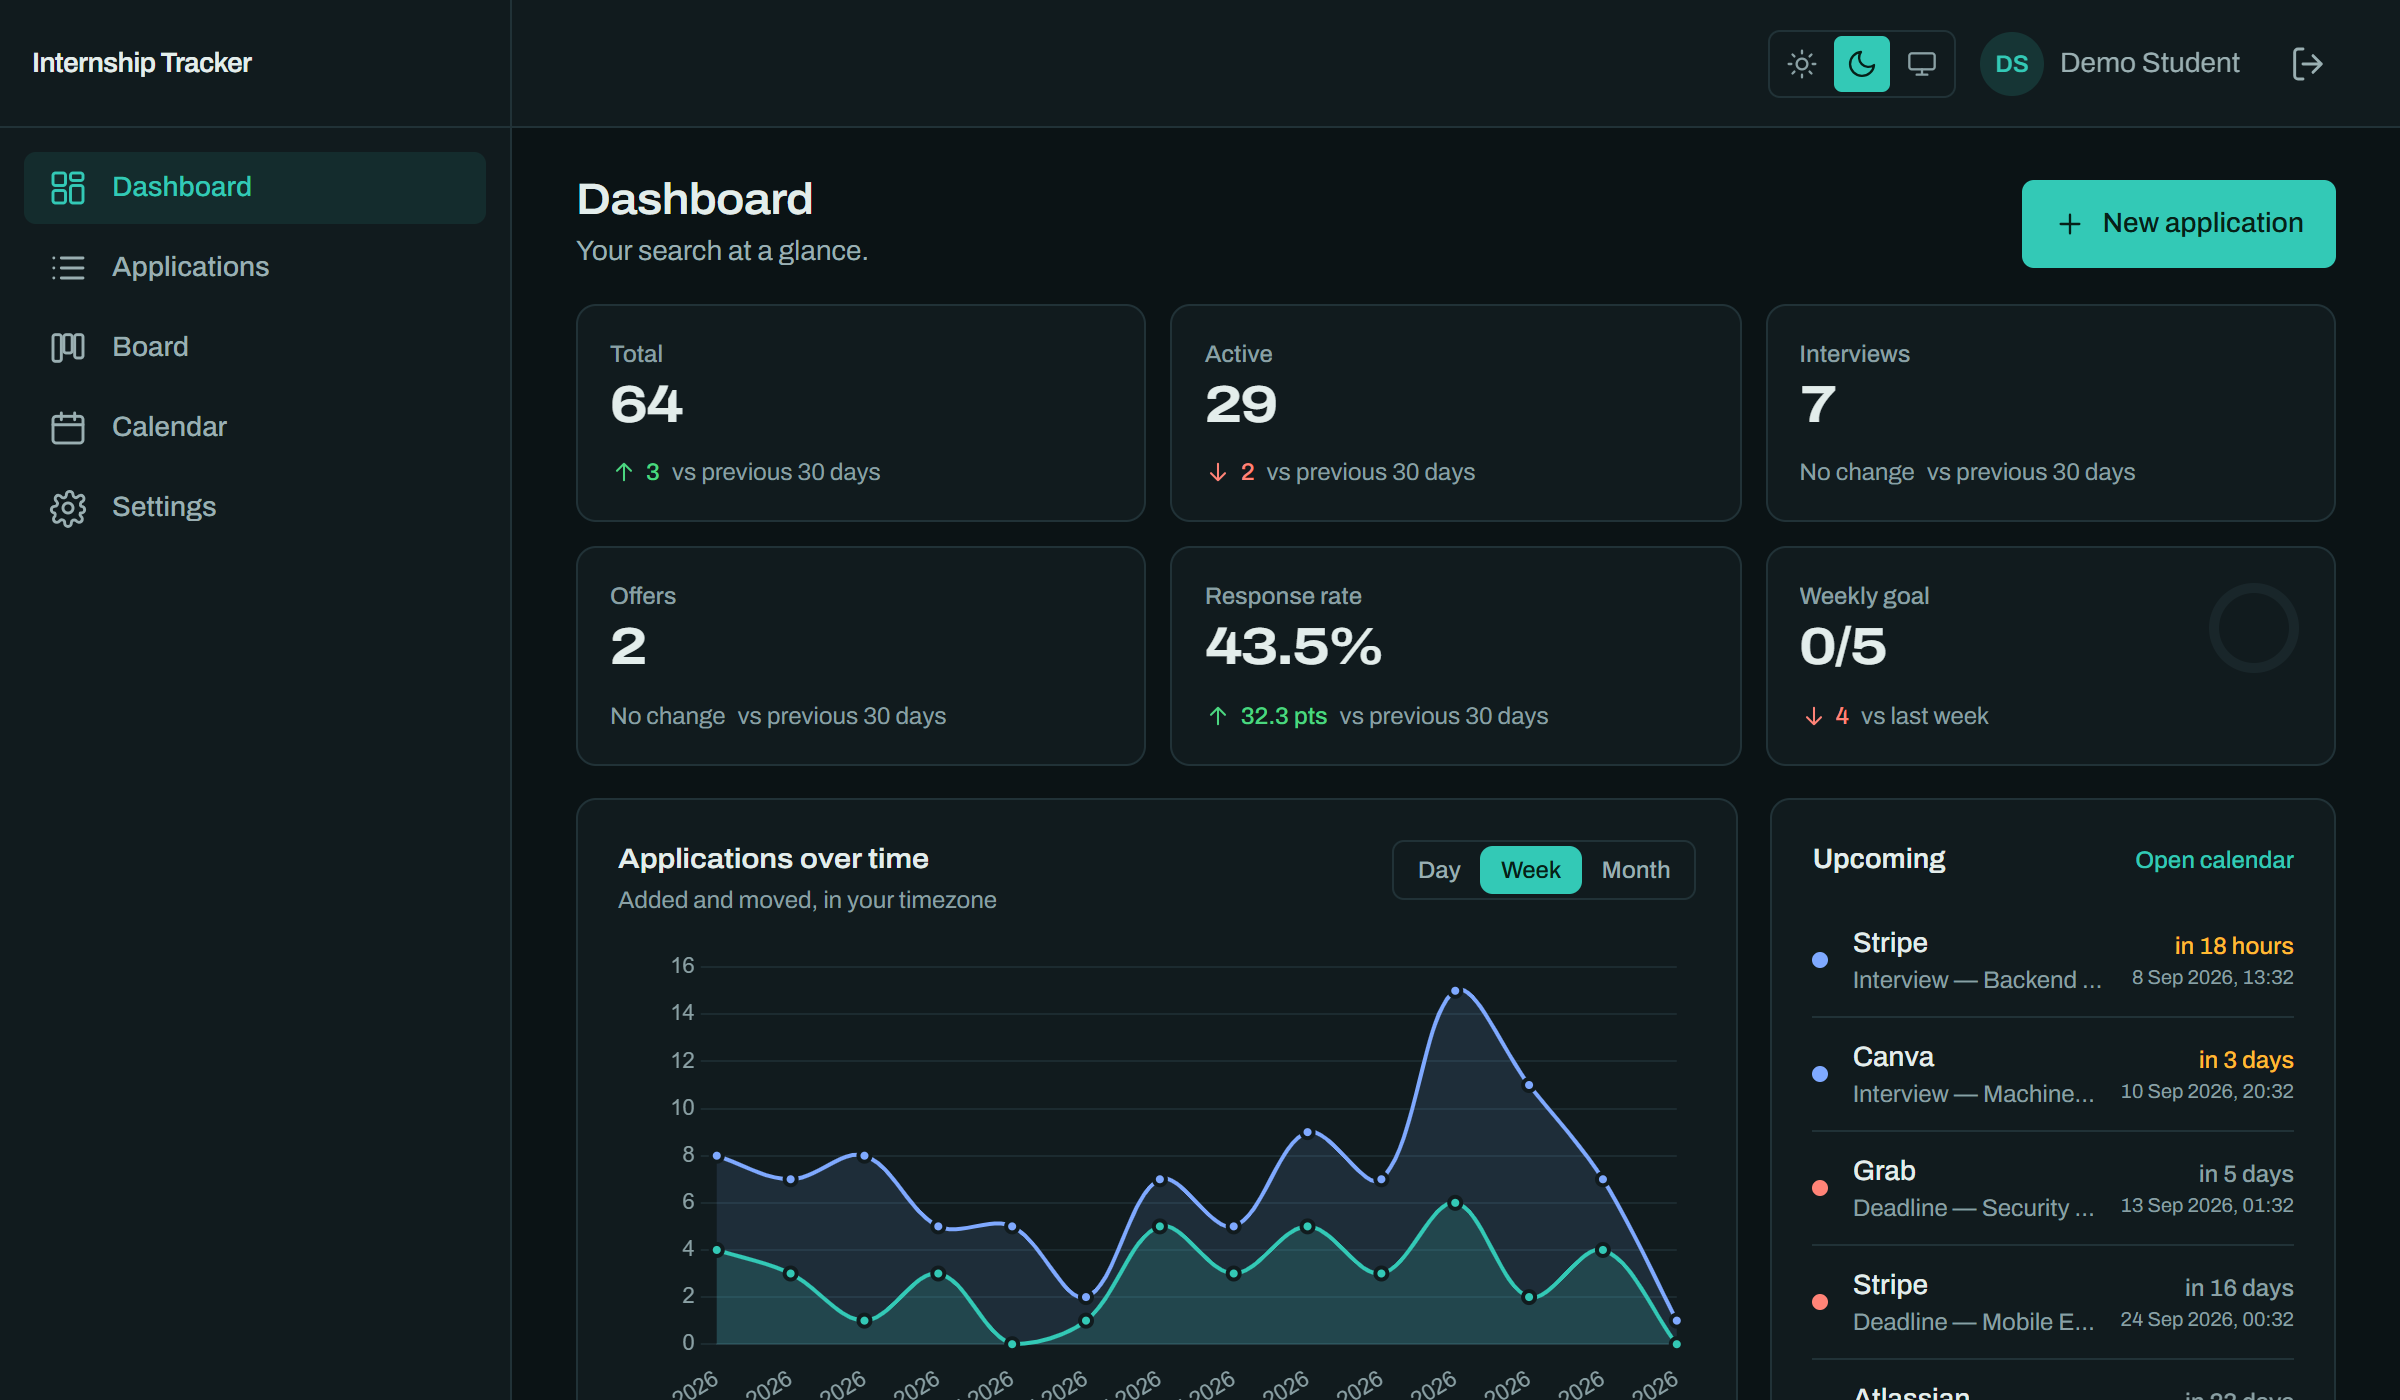
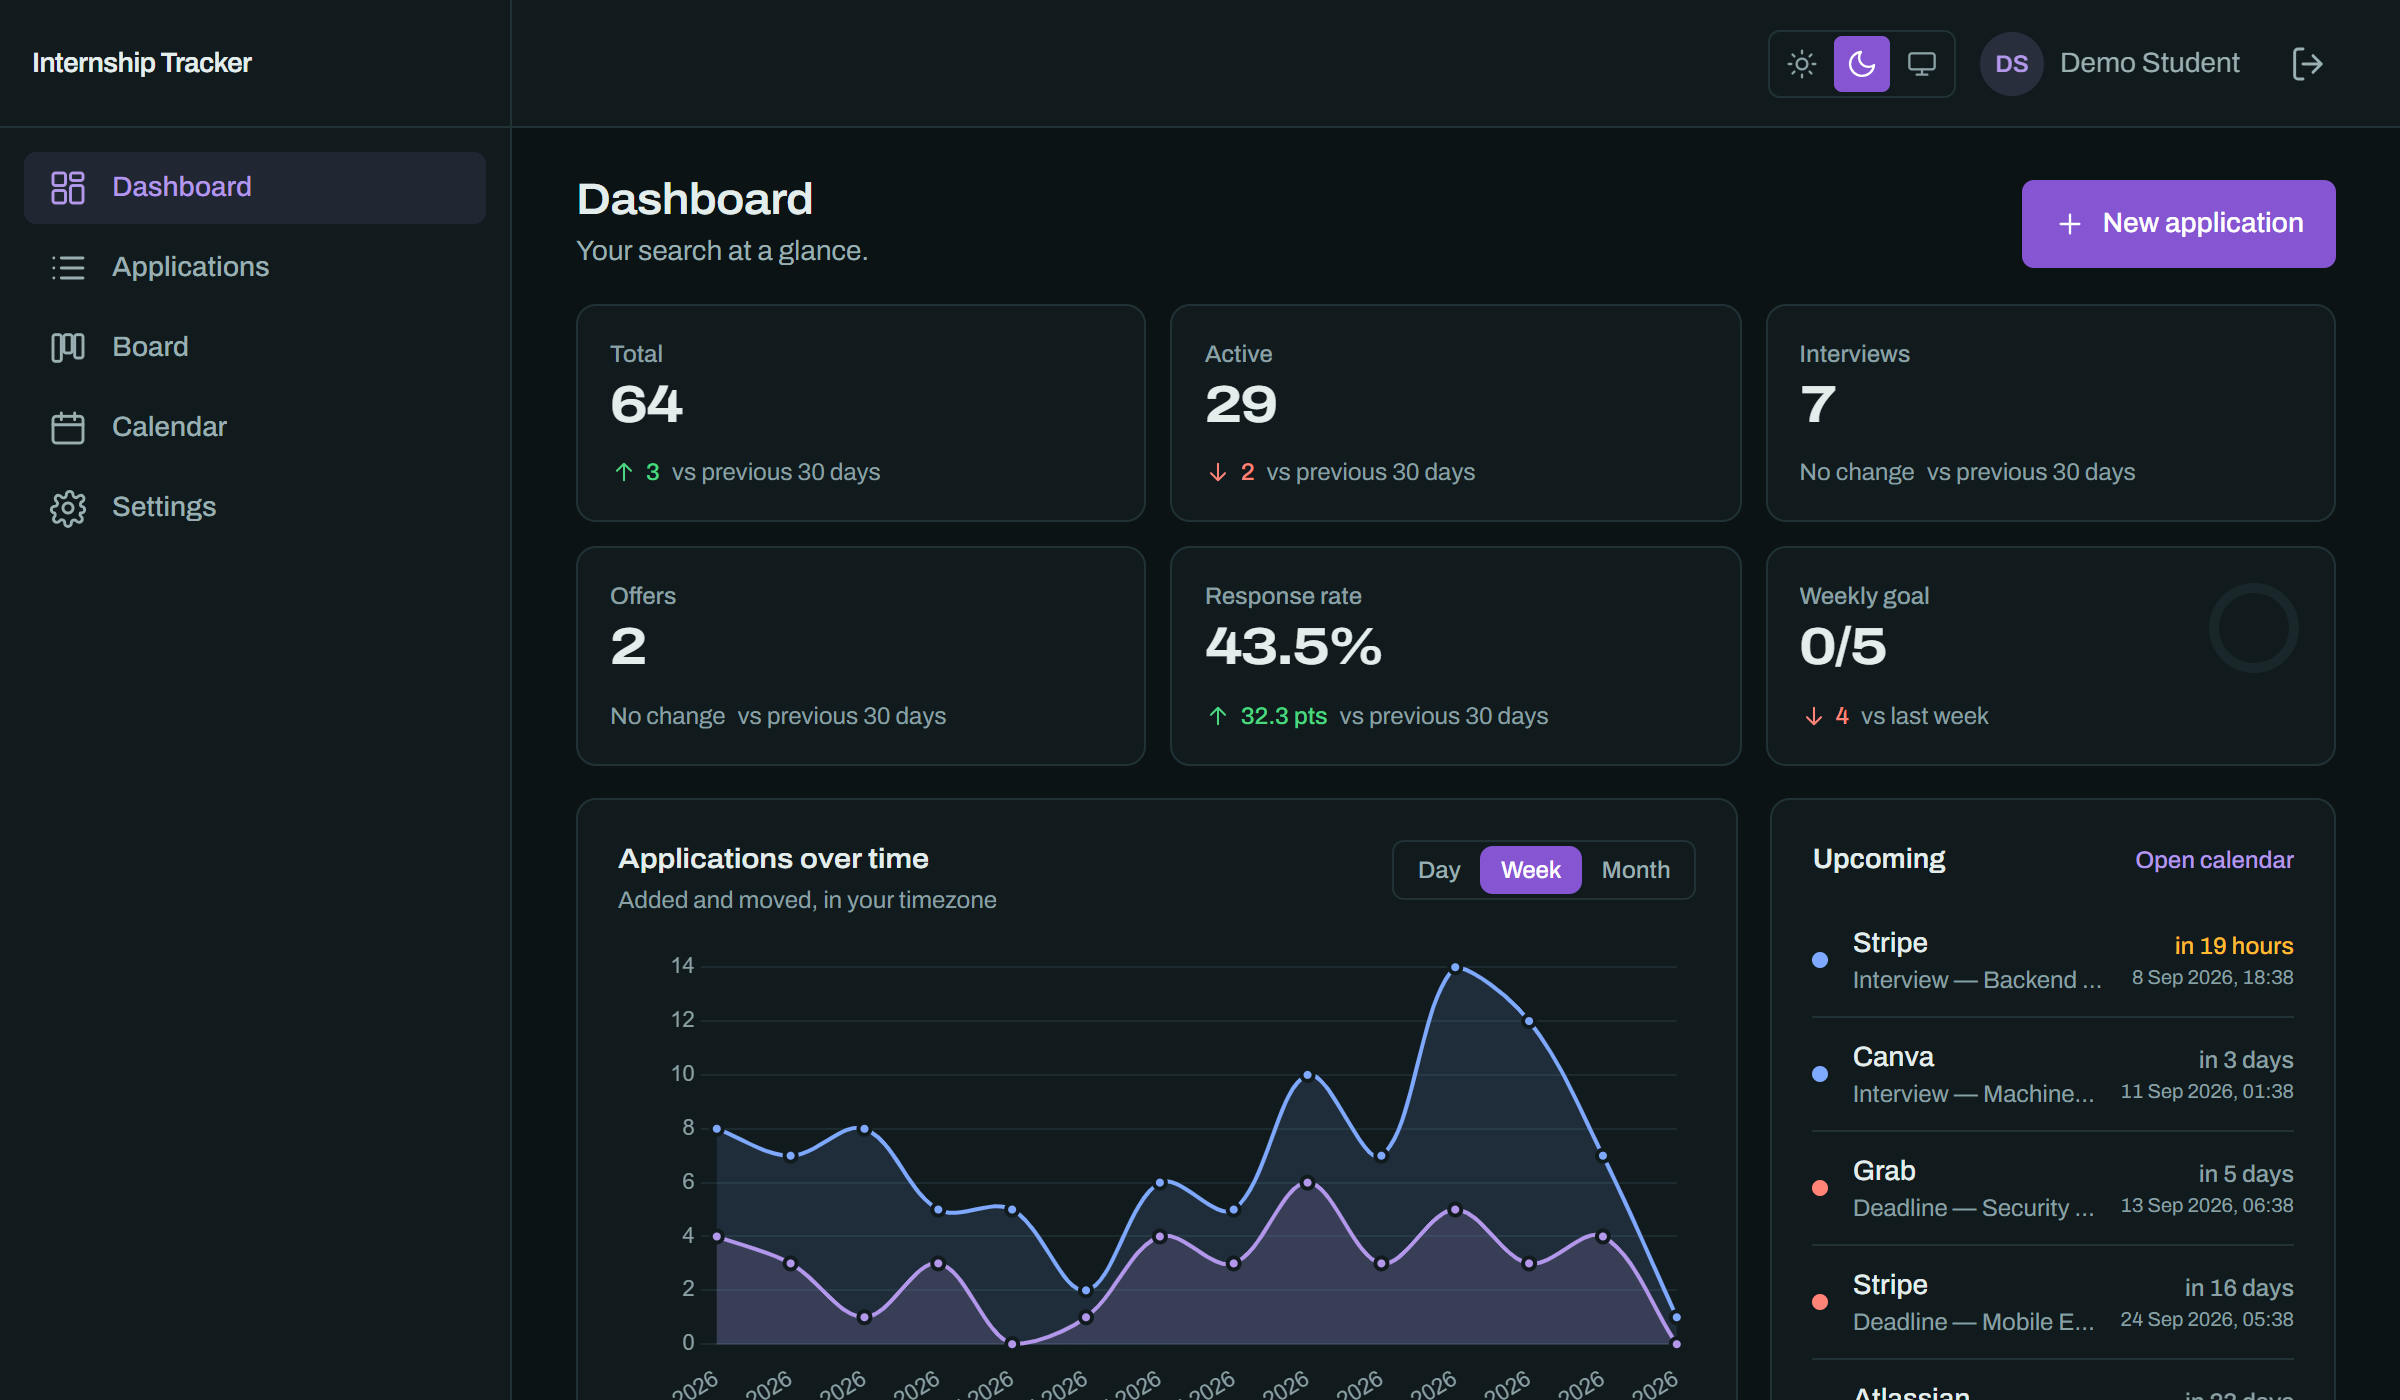
feat(design): replace the jade primary with a violet, and split the token
Review read the jade primary as neon in dark mode. Measuring the gate showed
the glare was tuning rather than a requirement: jade cleared the dark theme at
8.48:1 where 4.5 is asked, and a near-grey at chroma 0.02 passes the same gate.

The cobalt the brief asked for is unavailable. `--color-info` already sits at
OKLCH hue 264 as the `applied` status and `chart-2`, so a cobalt primary landed
1.2 degrees from it and made Applied and Assessment the same colour. Mapping
the hue occupancy of the tokens that could not move left one wide gap, between
info at 264 and chart-5's pink at 352. The primary is at hue 298.

`--color-primary` is also split in two. The pill shape `bg-primary/15
text-primary` forces the token to be readable as text on a near-black card,
which pins it near L 0.72 — and a fill that light with dark text is a pastel
button. The fill is now its own token at L 0.565 carrying white text. Wherever
`bg-primary` was paired with `text-primary-fg` — nine sites — both moved to the
fill pair; every tinted use kept the accent value. `--color-primary-hover` and
`--color-primary-fg` are deleted, unreferenced once those nine moved.

Hover deepens in both themes now: lightening the dark fill drops its white
label below 4.5:1, so down was the only direction left.

The fill is gated separately, and that gate immediately caught a real miss —
the first fill was checked against `canvas` only and sat at 2.75:1 against
[…]

diff --git a/client/src/index.css b/client/src/index.css
@@ -18,10 +18,15 @@
  * values for exactly that reason.
  *
  * The palette is the "Dispatch" direction recorded in DECISIONS.md: a
- * desaturated petrol base with a jade primary, on the rule that the interface is
- * cool by default and the only warm colours on screen — amber and red — mean
- * something needs the student's attention. Deliberately not a neutral slate with
- * an indigo accent, which is what it replaced.
+ * desaturated petrol base with a deep violet primary, on the rule that the
+ * interface is cool by default and the only warm colours on screen — amber and
+ * red — mean something needs the student's attention. Deliberately not a neutral
+ * slate with a stock indigo accent, which is what it replaced.
+ *
+ * The primary is violet rather than the cobalt first proposed because
+ * `--color-info` already owns hue 264: a blue primary made Applied and
+ * Assessment the same colour. Hue 298 is the widest gap left between info and
+ * the pink of `--color-chart-5`.
  *
  * Keep every declaration in these two blocks a flat `--name: value;`. The test
  * helper matches a block with `[^}]*`, so a nested rule here would truncate it.
@@ -35,15 +40,16 @@
   --color-text: 13 26 28;
   --color-text-muted: 63 85 89;
   --color-text-subtle: 84 105 109;
-  --color-primary: 4 100 90;
-  --color-primary-hover: 6 80 73;
-  --color-primary-fg: 255 255 255;
+  --color-primary: 104 46 179;
+  --color-primary-fill: 104 46 179;
+  --color-primary-fill-hover: 86 32 151;
+  --color-primary-fill-fg: 255 255 255;
   --color-success: 8 102 48;
   --color-warning: 134 72 0;
   --color-danger: 170 30 18;
   --color-danger-fg: 255 255 255;
   --color-info: 25 77 207;
-  --color-ring: 4 100 90;
+  --color-ring: 104 46 179;
   --color-shadow: 13 26 28;
 
   /*
@@ -51,7 +57,7 @@
    * by-source or top-companies chart on their own: those need colours that are
    * distinguishable from each other rather than colours that mean something.
    */
-  --color-chart-1: 4 100 90;
+  --color-chart-1: 104 46 179;
   --color-chart-2: 25 77 207;
   --color-chart-3: 134 72 0;
   --color-chart-4: 8 102 48;
@@ -60,10 +66,10 @@
 
   /* Activity heatmap intensity, level 0 being a day with nothing on it. */
   --color-heat-0: 226 233 231;
-  --color-heat-1: 183 220 213;
-  --color-heat-2: 127 197 186;
-  --color-heat-3: 61 158 144;
-  --color-heat-4: 11 108 98;
+  --color-heat-1: 208 197 236;
+  --color-heat-2: 180 158 230;
+  --color-heat-3: 146 107 215;
+  --color-heat-4: 110 56 184;
 }
 
 [data-theme='dark'] {
@@ -75,18 +81,19 @@
   --color-text: 227 237 235;
   --color-text-muted: 154 175 178;
   --color-text-subtle: 138 160 164;
-  --color-primary: 51 201 182;
-  --color-primary-hover: 92 217 201;
-  --color-primary-fg: 6 32 24;
+  --color-primary: 178 151 234;
+  --color-primary-fill: 133 85 210;
+  --color-primary-fill-hover: 115 63 191;
+  --color-primary-fill-fg: 255 255 255;
   --color-success: 75 214 128;
   --color-warning: 255 186 51;
   --color-danger: 255 131 119;
   --color-danger-fg: 42 10 6;
   --color-info: 127 169 255;
-  --color-ring: 51 201 182;
+  --color-ring: 178 151 234;
   --color-shadow: 0 0 0;
 
-  --color-chart-1: 51 201 182;
+  --color-chart-1: 178 151 234;
   --color-chart-2: 127 169 255;
   --color-chart-3: 255 186 51;
   --color-chart-4: 75 214 128;
@@ -94,10 +101,10 @@
   --color-chart-6: 138 160 164;
 
   --color-heat-0: 25 38 42;
-  --color-heat-1: 30 74 71;
-  --color-heat-2: 34 112 106;
-  --color-heat-3: 42 154 141;
-  --color-heat-4: 63 201 182;
+  --color-heat-1: 59 46 86;
+  --color-heat-2: 94 68 140;
+  --color-heat-3: 133 97 197;
+  --color-heat-4: 175 146 234;
 }
 
 @layer base {

diff --git a/client/tests/a11y/tokenContrast.test.ts b/client/tests/a11y/tokenContrast.test.ts
@@ -55,10 +55,30 @@ describe.each(['light', 'dark'] as const)('%s theme token contrast', (theme) => 
     },
   );
 
+  // The solid-fill pair is gated separately from the accent. Splitting them is
+  // what lets the dark theme carry a genuinely deep button instead of a pastel
+  // one, and an ungated second token would just drift back towards the accent.
+  it('keeps the filled primary button readable and visible', () => {
+    expect(contrastRatio(token('primary-fill-fg'), token('primary-fill'))).toBeGreaterThanOrEqual(
+      AA_TEXT,
+    );
+    expect(
+      contrastRatio(token('primary-fill-hover'), token('primary-fill-fg')),
+    ).toBeGreaterThanOrEqual(AA_TEXT);
+  });
+
+  // A deep fill on a near-black canvas can pass its own label check and still
+  // be an invisible slab. The button's shape has to clear AA for a graphical
+  // object against every ground it is painted on.
+  it.each(SURFACES)('primary-fill reads as a shape on %s', (bg) => {
+    expect(contrastRatio(token('primary-fill'), token(bg))).toBeGreaterThanOrEqual(AA_NON_TEXT);
+  });
+
   it('keeps button labels readable on their filled backgrounds', () => {
-    expect(contrastRatio(token('primary-fg'), token('primary'))).toBeGreaterThanOrEqual(AA_TEXT);
-    // The danger button used to hardcode white, which is unreadable on the dark
-    // theme's lighter red. It has its own foreground token now, checked here.
+    // The primary button's own pair is checked above, against the fill tokens
+    // that replaced `primary-fg`. The danger button used to hardcode white,
+    // which is unreadable on the dark theme's lighter red. It has its own
+    // foreground token now, checked here.
     expect(contrastRatio(token('danger-fg'), token('danger'))).toBeGreaterThanOrEqual(AA_TEXT);
   });
 

diff --git a/client/tests/dashboard/chartTheme.test.tsx b/client/tests/dashboard/chartTheme.test.tsx
@@ -60,14 +60,14 @@ describe('charts follow the theme', () => {
     // `readChartPalette` fall back and `tokenColor` return `rgb()`, and the two
     // agree on nothing. So one concrete value per theme is pinned, and it has to
     // be updated by hand whenever `src/index.css` ships a new palette. The
-    // "Dispatch" redesign moved primary from indigo to jade; these are the
-    // values that file now ships.
-    expect(tokenColor('color-primary')).toBe('rgb(4 100 90)');
+    // "Dispatch" redesign moved primary from indigo to jade, then jade to a deep
+    // violet; these are the values that file now ships.
+    expect(tokenColor('color-primary')).toBe('rgb(104 46 179)');
 
     await setTheme('dark');
 
     expect(readChartPalette().color('color-primary')).toBe(tokenColor('color-primary'));
-    expect(tokenColor('color-primary')).toBe('rgb(51 201 182)');
+    expect(tokenColor('color-primary')).toBe('rgb(178 151 234)');
   });
 
   it('repaints a mounted line chart when the theme is toggled', async () => {

diff --git a/client/tailwind.config.ts b/client/tailwind.config.ts
@@ -28,8 +28,13 @@ export default {
         'content-muted': token('color-text-muted'),
         'content-subtle': token('color-text-subtle'),
         primary: token('color-primary'),
-        'primary-hover': token('color-primary-hover'),
-        'primary-fg': token('color-primary-fg'),
+        // The solid-fill pair is a separate token from the accent above. One value
+        // cannot do both jobs in dark mode: a fill dark enough to carry white
+        // text is far too dark to read as text on a card, and the readable
+        // value is too light to read as anything but a pastel button.
+        'primary-fill': token('color-primary-fill'),
+        'primary-fill-hover': token('color-primary-fill-hover'),
+        'primary-fill-fg': token('color-primary-fill-fg'),
         success: token('color-success'),
         warning: token('color-warning'),
         danger: token('color-danger'),

diff --git a/client/src/components/marketing/Hero.tsx b/client/src/components/marketing/Hero.tsx
@@ -140,7 +140,7 @@ export function Hero({ onTryDemo, isDemoLoading, showDemo }: HeroProps): JSX.Ele
             <div className="mt-9 flex flex-col gap-3 sm:flex-row sm:items-center">
               <Link
                 to={paths.register}
-                className="inline-flex h-11 items-center justify-center rounded-control bg-primary px-6 text-sm font-semibold text-primary-fg transition-colors hover:bg-primary-hover"
+                className="inline-flex h-11 items-center justify-center rounded-control bg-primary-fill px-6 text-sm font-semibold text-primary-fill-fg transition-colors hover:bg-primary-fill-hover"
               >
                 Create a free account
               </Link>

diff --git a/client/src/components/marketing/MarketingChrome.tsx b/client/src/components/marketing/MarketingChrome.tsx
@@ -69,7 +69,7 @@ export function MarketingHeader(): JSX.Element {
           </Link>
           <Link
             to={paths.register}
-            className="inline-flex h-9 items-center whitespace-nowrap rounded-control bg-primary px-3.5 text-sm font-semibold text-primary-fg transition-colors hover:bg-primary-hover"
+            className="inline-flex h-9 items-center whitespace-nowrap rounded-control bg-primary-fill px-3.5 text-sm font-semibold text-primary-fill-fg transition-colors hover:bg-primary-fill-hover"
           >
             Create account
           </Link>

diff --git a/client/src/features/calendar/MonthGrid.tsx b/client/src/features/calendar/MonthGrid.tsx
@@ -67,7 +67,7 @@ export function MonthGrid({ days, selectedDate, onSelectDay }: MonthGridProps): 
                     className={cn(
                       'inline-flex h-6 w-6 items-center justify-center rounded-full text-xs',
                       day.isToday
-                        ? 'bg-primary font-semibold text-primary-fg'
+                        ? 'bg-primary-fill font-semibold text-primary-fill-fg'
                         : 'text-content-muted',
                       !day.inMonth && 'text-content-subtle',
                     )}

diff --git a/client/src/pages/NotFoundPage.tsx b/client/src/pages/NotFoundPage.tsx
@@ -12,7 +12,7 @@ export function NotFoundPage(): JSX.Element {
         </p>
         <Link
           to={paths.dashboard}
-          className="mt-6 inline-flex h-11 items-center rounded-control bg-primary px-4 text-sm font-medium text-primary-fg transition-colors hover:bg-primary-hover"
+          className="mt-6 inline-flex h-11 items-center rounded-control bg-primary-fill px-4 text-sm font-medium text-primary-fill-fg transition-colors hover:bg-primary-fill-hover"
         >
           Back to the dashboard
         </Link>

diff --git a/client/src/components/ui/Button.tsx b/client/src/components/ui/Button.tsx
@@ -5,7 +5,7 @@ type Variant = 'primary' | 'secondary' | 'ghost' | 'danger';
 type Size = 'sm' | 'md';
 
 const VARIANTS: Record<Variant, string> = {
-  primary: 'bg-primary text-primary-fg hover:bg-primary-hover',
+  primary: 'bg-primary-fill text-primary-fill-fg hover:bg-primary-fill-hover',
   secondary: 'bg-surface text-content border border-border hover:bg-surface-muted',
   ghost: 'text-content-muted hover:bg-surface-muted hover:text-content',
   danger: 'bg-danger text-danger-fg hover:opacity-90',

diff --git a/client/src/features/applications/detail/NotesEditor.tsx b/client/src/features/applications/detail/NotesEditor.tsx
@@ -77,7 +77,7 @@ export function NotesEditor({ savedNotes, isSaving, onSave }: NotesEditorProps):
                 }}
                 className={cn(
                   'rounded-[0.4rem] px-2.5 py-1 text-xs font-medium',
-                  tab.active ? 'bg-primary text-primary-fg' : 'text-content-muted',
+                  tab.active ? 'bg-primary-fill text-primary-fill-fg' : 'text-content-muted',
                 )}
               >
                 {tab.label}

diff --git a/client/src/features/applications/ApplicationsToolbar.tsx b/client/src/features/applications/ApplicationsToolbar.tsx
@@ -141,7 +141,7 @@ export function ApplicationsToolbar({
             <FilterIcon className="h-4 w-4" />
             Filters
             {activeFilterCount > 0 && (
-              <span className="rounded-full bg-primary px-1.5 text-xs text-primary-fg">
+              <span className="rounded-full bg-primary-fill px-1.5 text-xs text-primary-fill-fg">
                 {activeFilterCount}
               </span>
             )}

diff --git a/client/src/features/dashboard/charts/TimelineChart.tsx b/client/src/features/dashboard/charts/TimelineChart.tsx
@@ -97,7 +97,7 @@ export function TimelineChart({
               className={cn(
                 'rounded-[0.4rem] px-2.5 py-1 text-xs font-medium transition-colors',
                 option === granularity
-                  ? 'bg-primary text-primary-fg'
+                  ? 'bg-primary-fill text-primary-fill-fg'
                   : 'text-content-muted hover:bg-surface-muted',
               )}
             >
